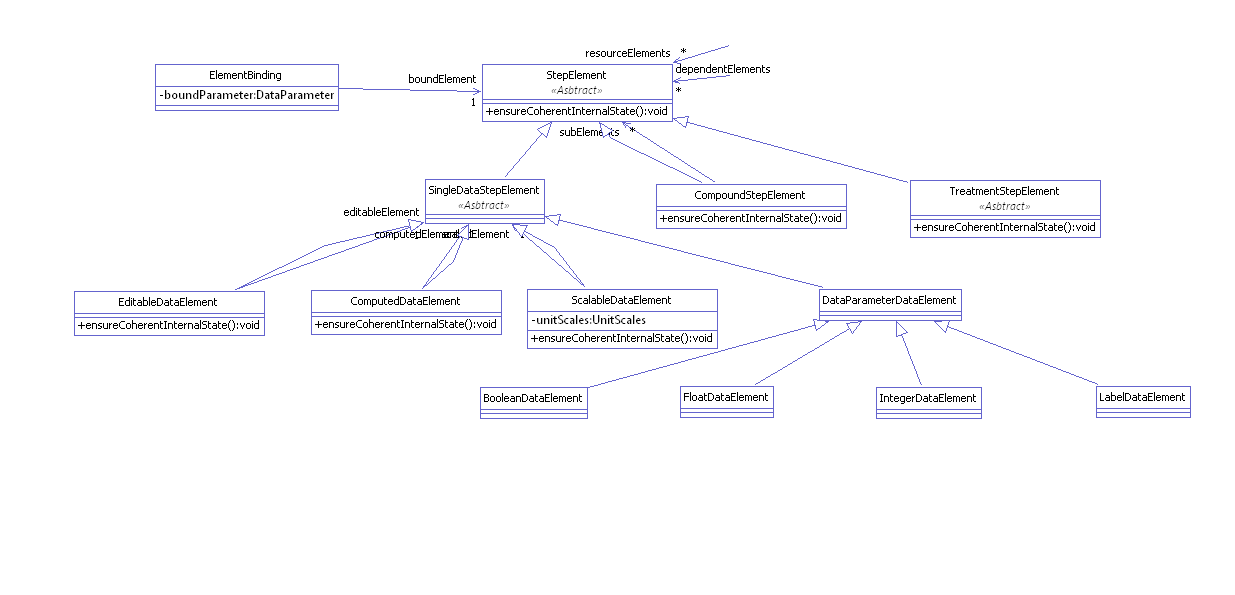
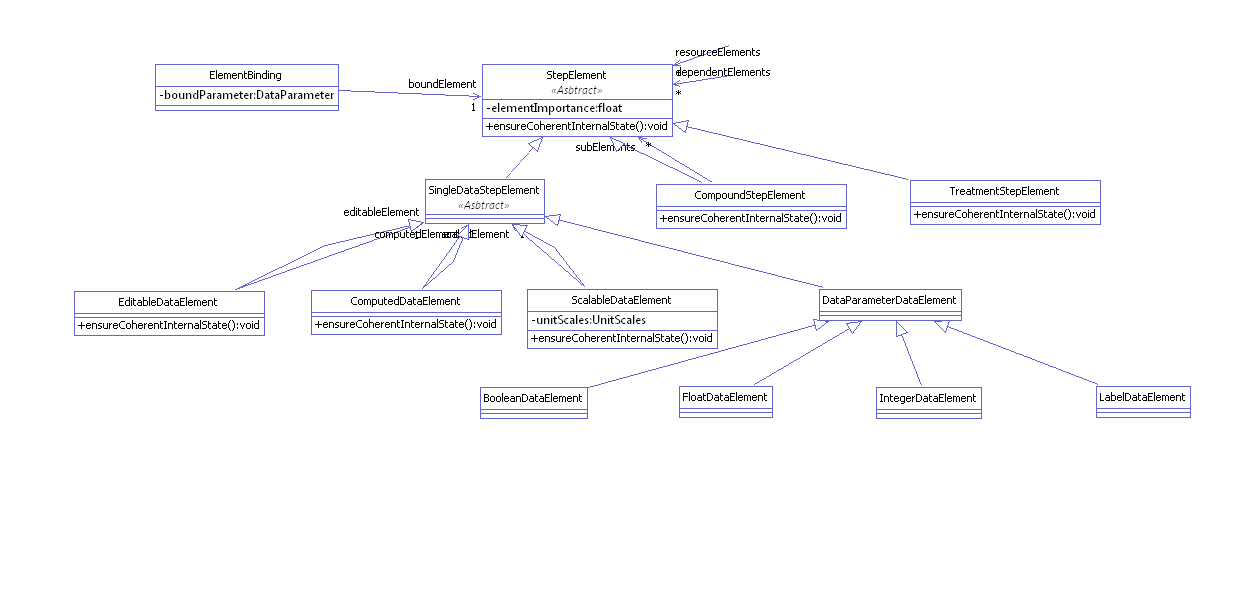
StepElement importance added and TreatmentStepElement made concrete. Doc updated.

diff --git a/C4Sci/src/main/java/c4sci/modelViewPresenterController/presenterControllerInterface/StepElement.java b/C4Sci/src/main/java/c4sci/modelViewPresenterController/presenterControllerInterface/StepElement.java
@@ -21,6 +21,13 @@ import c4sci.modelViewPresenterController.presenterControllerInterface.scales.Un
  * <b>Sub elements</b><br>
  * An element can contain sub elements. These are referenced by integer value which meaning is up to "this" element.<br>
  * <br>
+ * <b>Importance</b><br>
+ * Each StepElement is assigned an importance value, that can be useful for the presenter to improve the application usability.<br>
+ * Importance ranges from 0.0 (least important) to 1.0 (most important). Default value is 1.0/<br>
+ * Importance is defined relatively to the parent importance. <br>
+ * E.g if parent's importance is 0.5 and current element's importance is 0.35,  
+ * then it's computed importance compared to other elements is 0.5*0.35=0.175.
+ * <br>
  * <b>Pattern : </b> StepElement structure is based on the <b>Composite</b> GoF pattern.
  * <br>
  * @author jeanmarc.deniel
@@ -31,11 +38,12 @@ public abstract class StepElement {
 	
 	private List<StepElement>			resourceElements;		// elements from which "this" depends
 	private List<StepElement>			dependentElements;		// elements that depend on "this"
-
+	private float						elementImportance;		// [0-1]
 	
 	public StepElement() {
 		resourceElements 	= Collections.synchronizedList(new ArrayList<StepElement>());
 		dependentElements	= Collections.synchronizedList(new ArrayList<StepElement>());
+		setElementImportance(1.0f);
 	}
 	/**
 	 * Tests whether an element as an internal state that is coherent, independently from<br>
@@ -99,7 +107,8 @@ public abstract class StepElement {
 	 */
 	public abstract boolean isEditable();
 	/**
-	 * @return The bindings to the data that are directly necessary for the StepElement to work. 
+	 * @return The bindings to the data that are directly necessary for the StepElement to work.<br>
+	 * If there is no element to work on, then the {@link List} will be empty (but not null). 
 	 */
 	public abstract List<ElementBinding> getBindings();
 	/**
@@ -107,5 +116,11 @@ public abstract class StepElement {
 	 */
 	public UnitScales getUnits(){
 		return null;
+	}
+	public float getElementImportance() {
+		return elementImportance;
+	}
+	public void setElementImportance(float elementImportance) {
+		this.elementImportance = elementImportance;
 	}
 }

diff --git a/C4Sci/src/main/java/c4sci/modelViewPresenterController/presenterControllerInterface/stepElements/TreatmentStepElement.java b/C4Sci/src/main/java/c4sci/modelViewPresenterController/presenterControllerInterface/stepElements/TreatmentStepElement.java
@@ -1,8 +1,11 @@
 package c4sci.modelViewPresenterController.presenterControllerInterface.stepElements;
 
+import java.util.ArrayList;
 import java.util.Iterator;
+import java.util.List;
 
 import c4sci.NoChildIterator;
+import c4sci.modelViewPresenterController.presenterControllerInterface.ElementBinding;
 import c4sci.modelViewPresenterController.presenterControllerInterface.StepElement;
 import c4sci.modelViewPresenterController.presenterControllerInterface.scales.UnitScales;
 
@@ -11,7 +14,7 @@ import c4sci.modelViewPresenterController.presenterControllerInterface.scales.Un
  * @author jeanmarc.deniel
  *
  */
-public abstract class TreatmentStepElement extends StepElement {
+public class TreatmentStepElement extends StepElement {
 
 	public TreatmentStepElement() {}
 
@@ -35,5 +38,10 @@ public abstract class TreatmentStepElement extends StepElement {
 	@Override
 	public Iterator<StepElement> getSubElementsIterator(){
 		return new NoChildIterator<StepElement>();
+	}
+
+	@Override
+	public List<ElementBinding> getBindings() {
+		return new ArrayList<ElementBinding>();
 	}
 }
